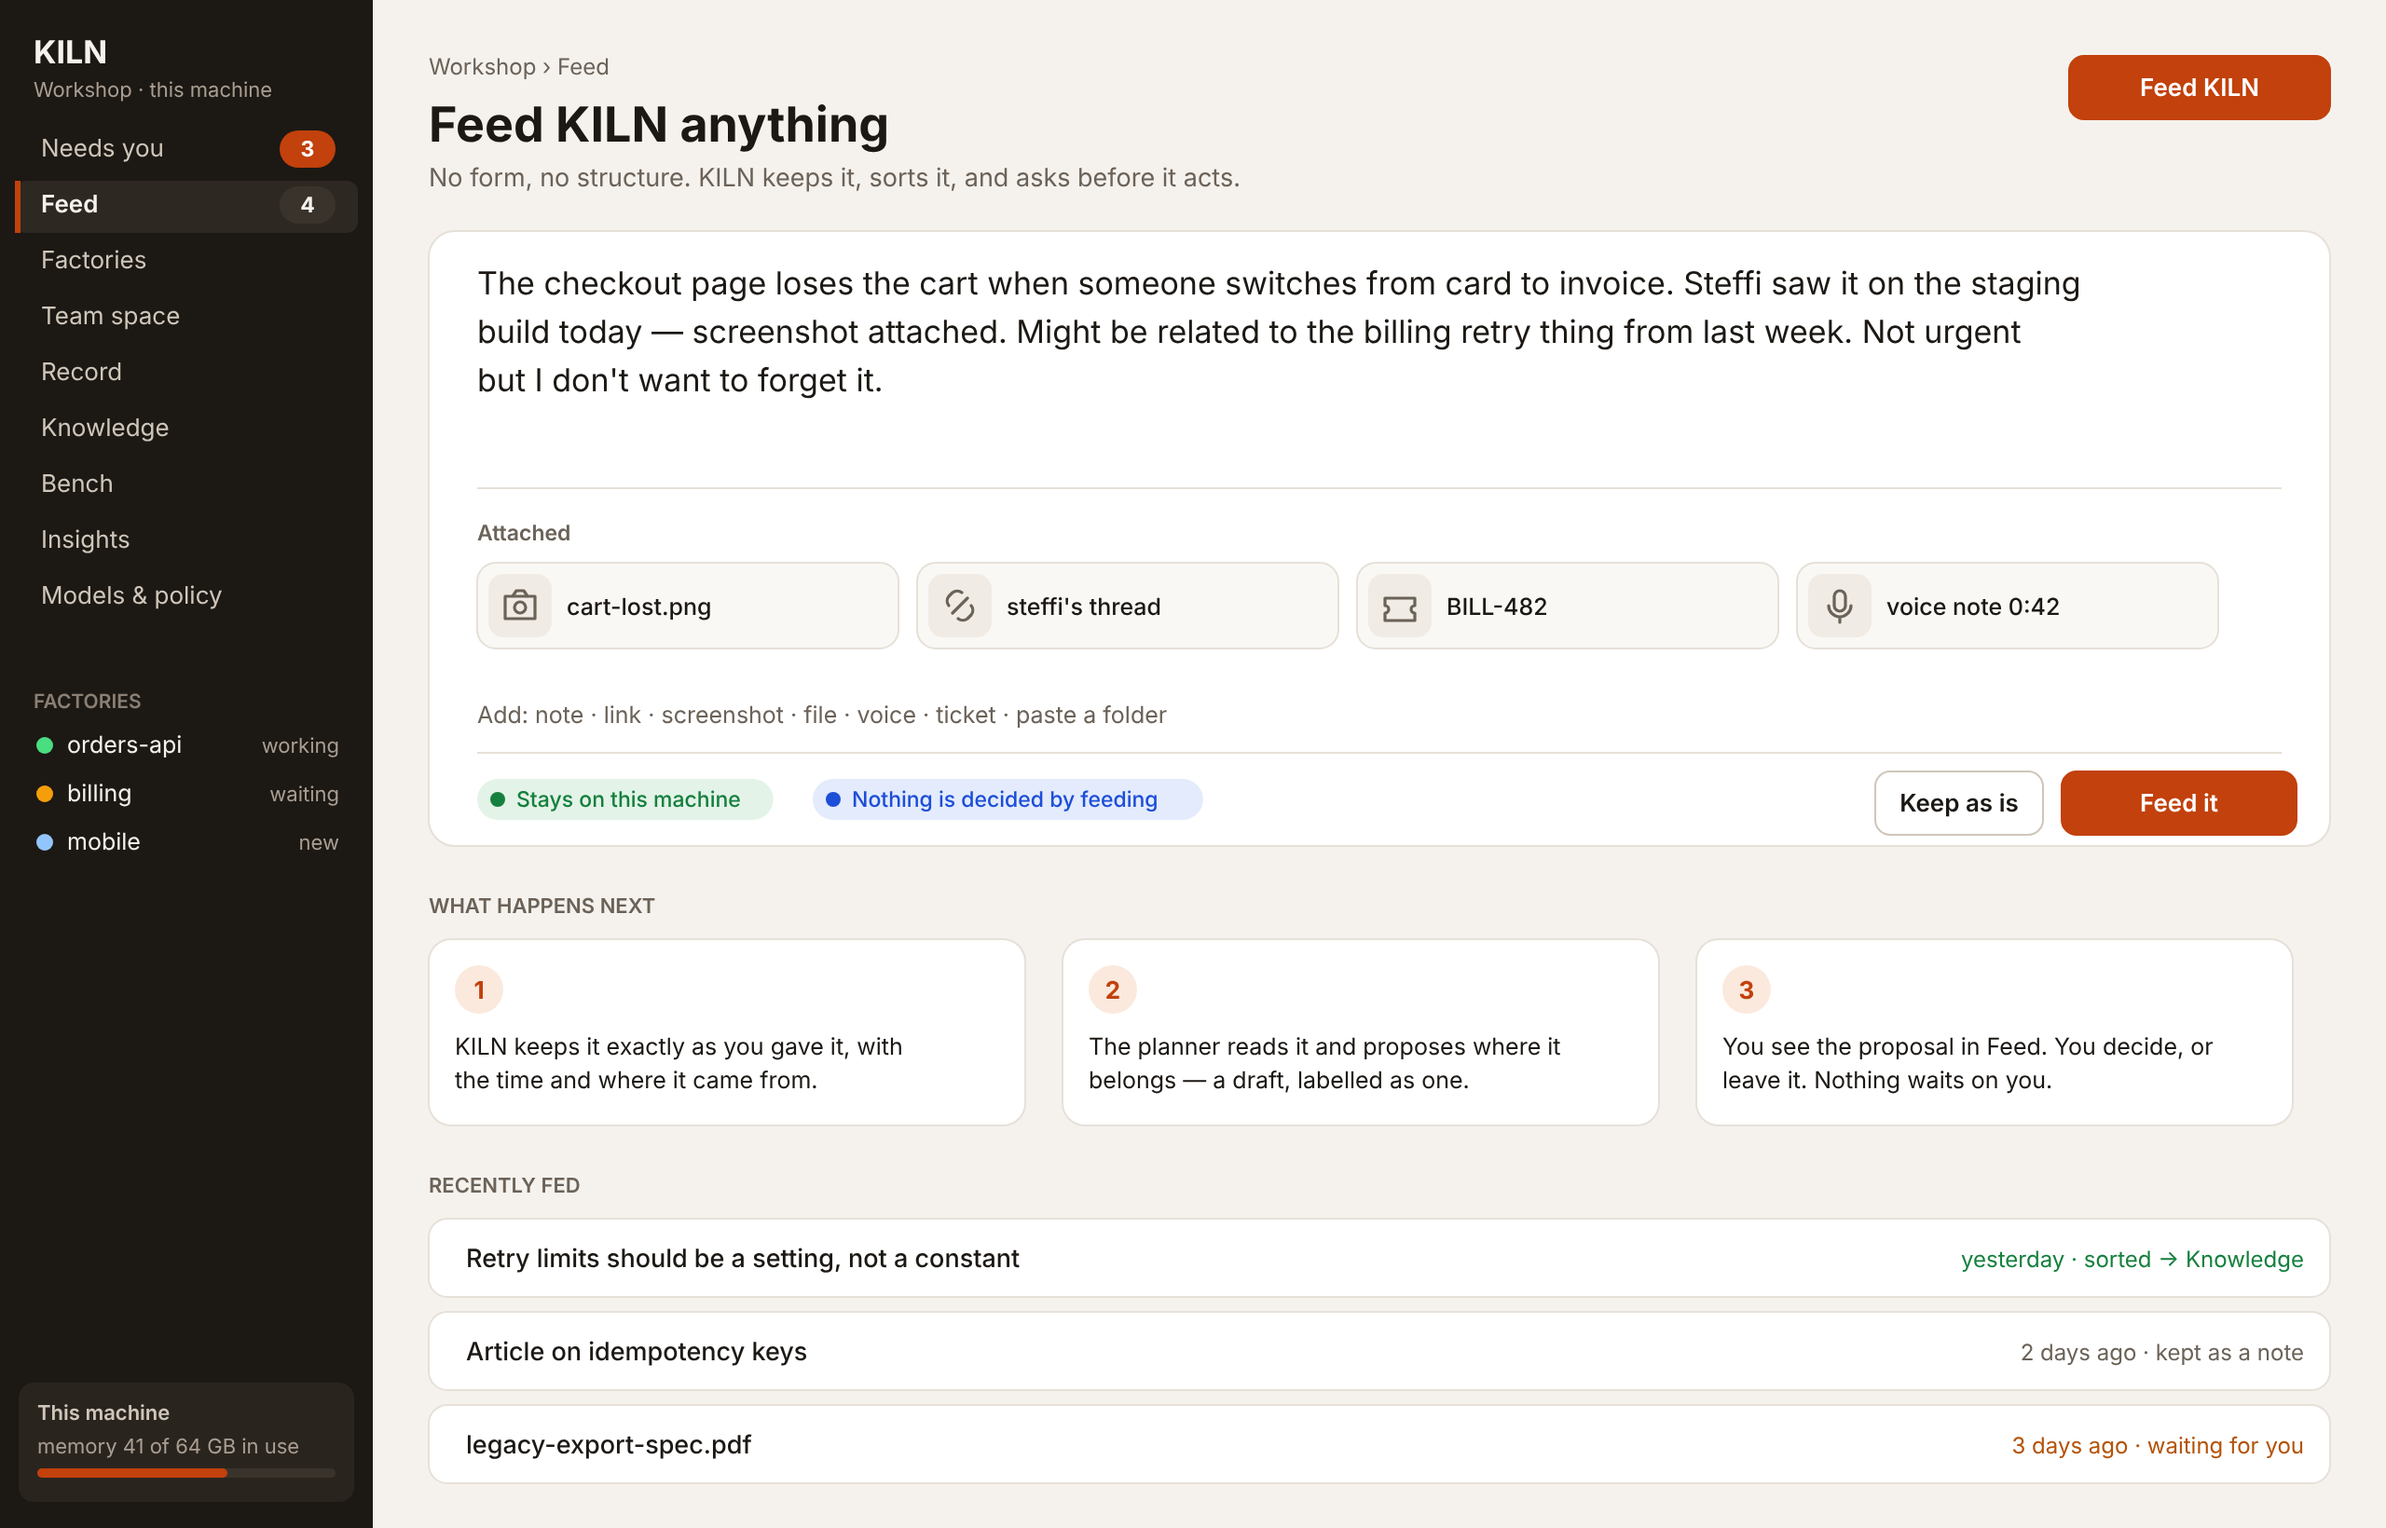
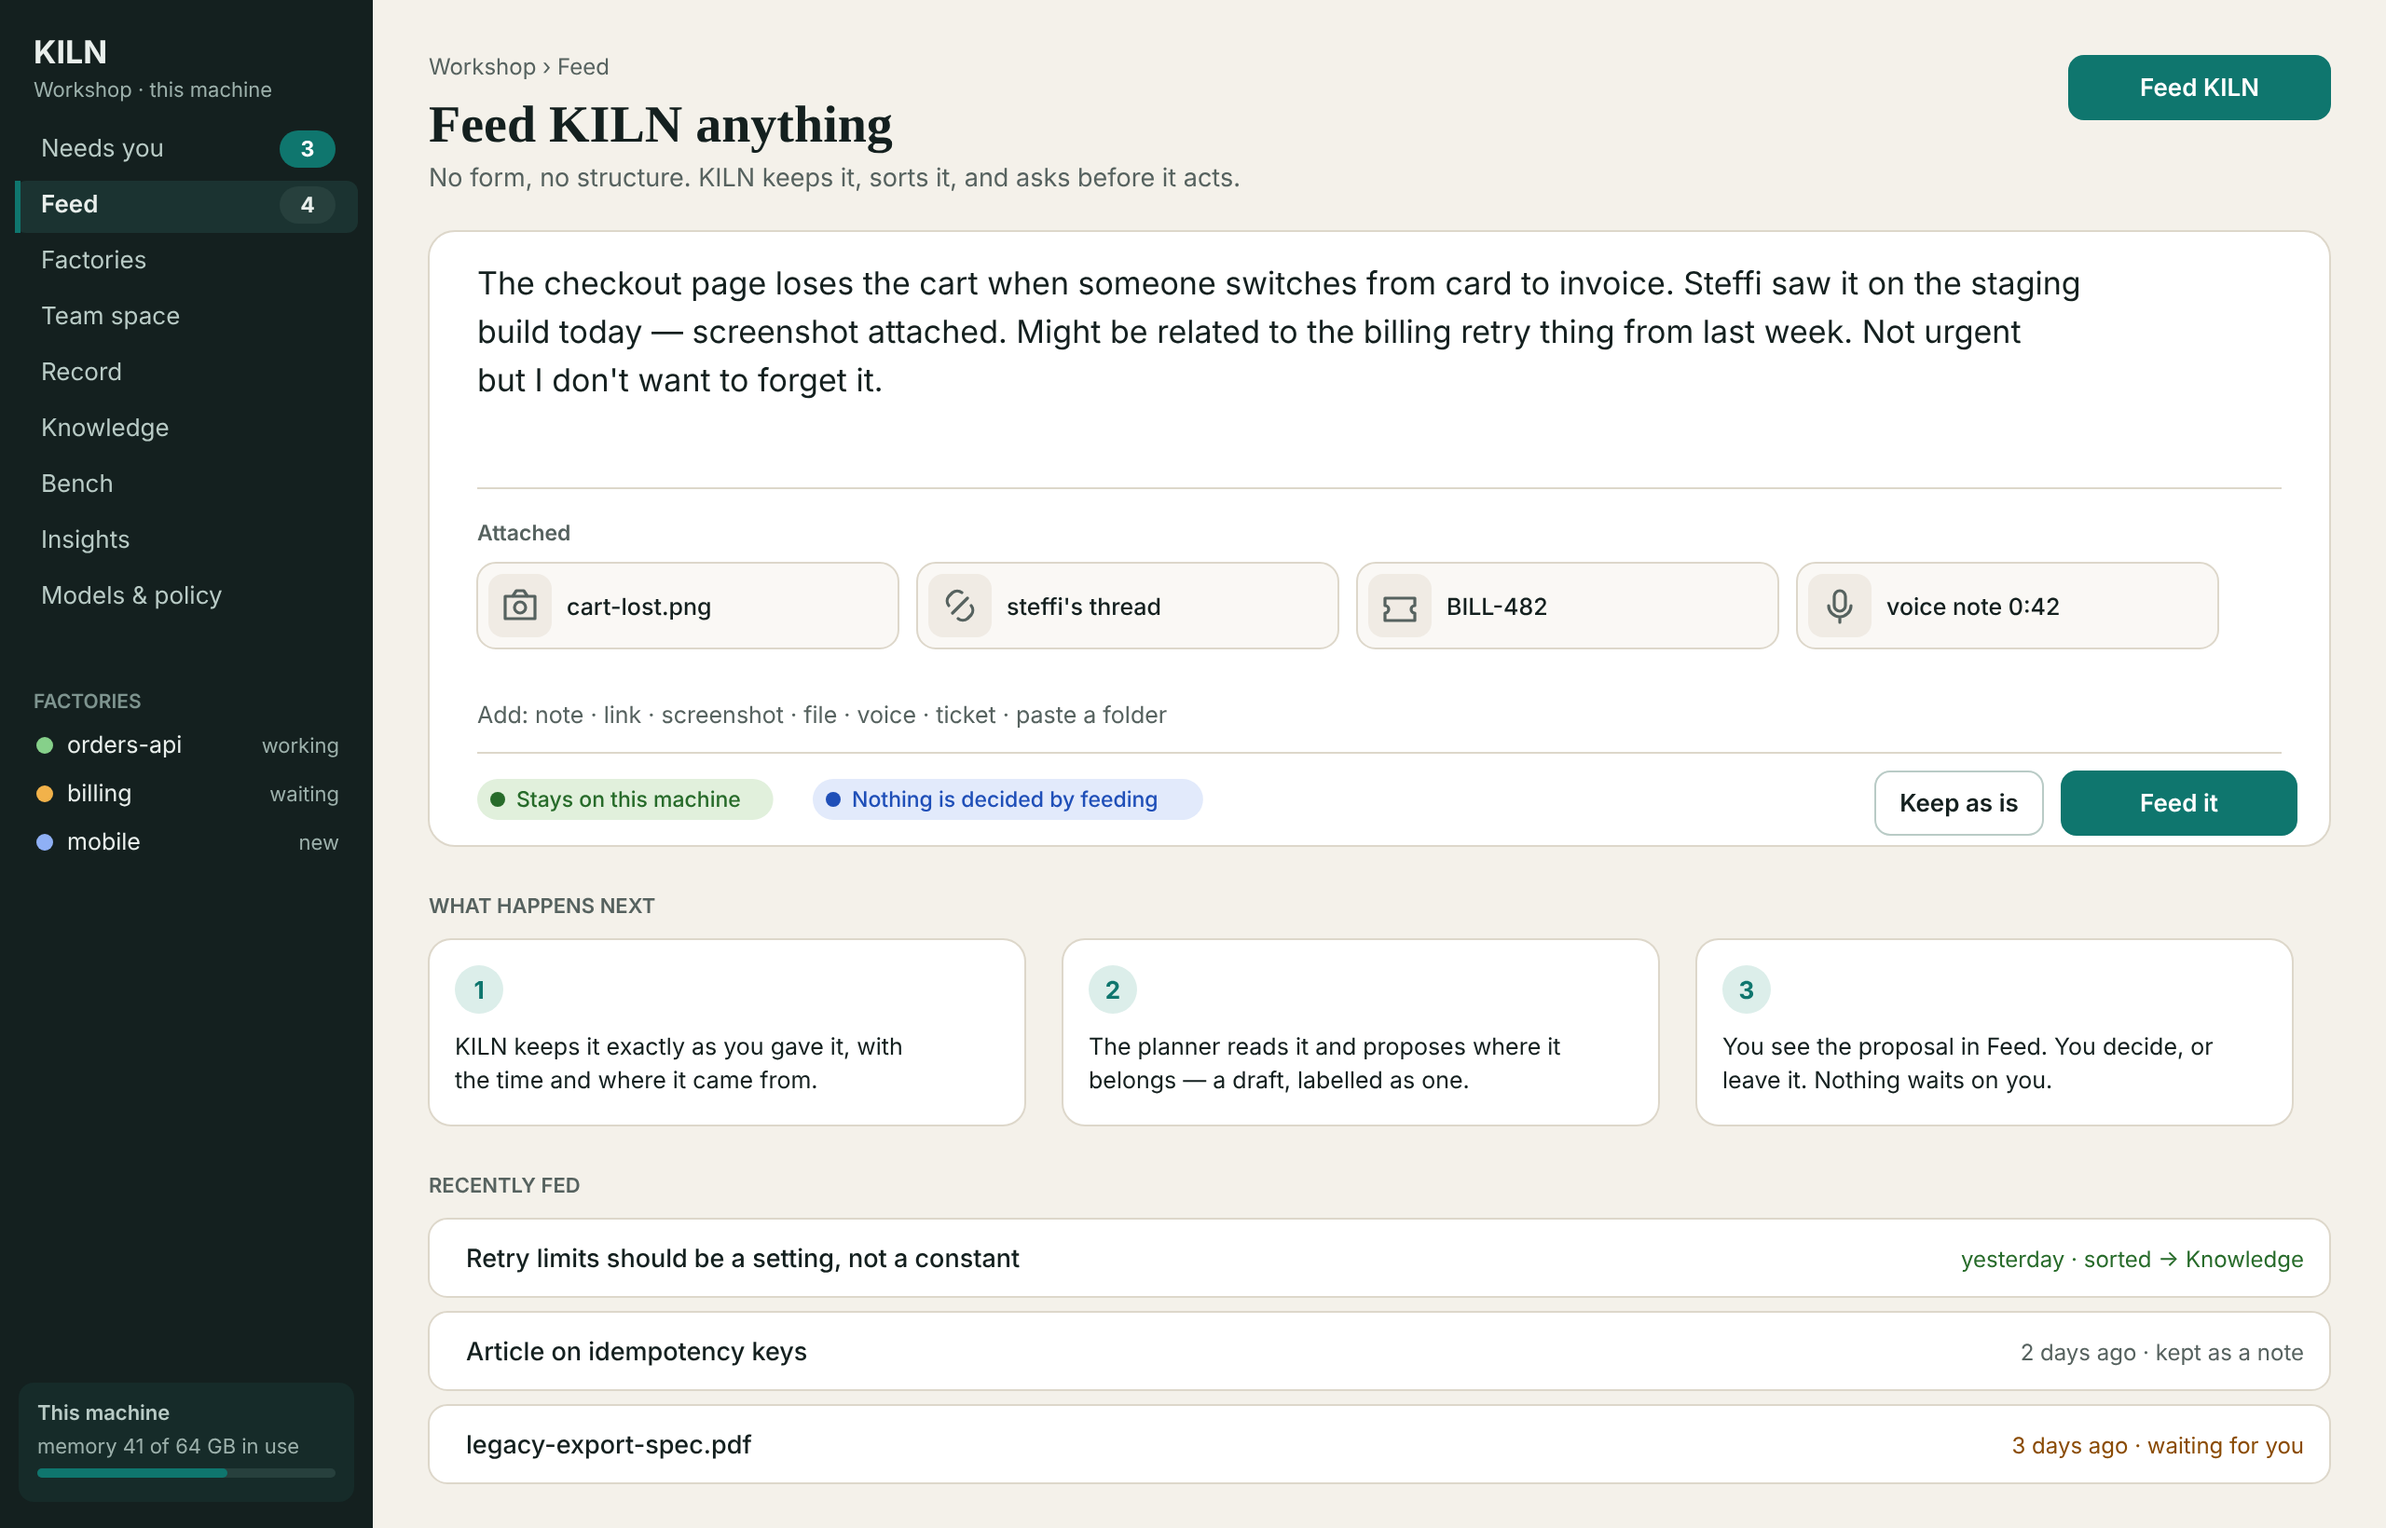
Propose teal-and-sand theme and three-face type; update design system, Feed samples, notes
Claude-Session: https://claude.ai/code/session_01SEMZrA5RguzPuZJa4EMxUB

diff --git a/docs/concepts/design-system.md b/docs/concepts/design-system.md
@@ -409,13 +409,37 @@ palette that this makes explicit.
 
 | Seed | From | Becomes |
 |---|---|---|
-| **Palette** | warm neutrals (`#F5F2EE` background, `#1C1814` ink, `#E6E0D8` line) with an **ember** brand (`#C2410C`, `#EA580C`) | `color.neutral.*` and `color.ember.*` primitives; `color.surface.*`, `color.text.*`, `color.action.primary` semantics |
-| **State colours** | amber *waiting*, green *ok*, blue *info*, violet *delegated* | the product-specific status roles `status.wait`, `status.ok`, `status.info`, `status.delegated` — each tied to its meaning in the gate rail, Needs you and the brief |
-| **Type** | a system sans stack and a monospace for ids, paths and hashes | `font.family.sans`, `font.family.mono`, with a scale |
+| **Palette** | **teal and sand** (changed 2026-10-25; was warm neutrals with an ember accent): sand page `#F4F1EA`, raised `#FFFFFF`, ink `#14201F`, muted text `#56625F`, border `#DDD7CA`, deep-teal rail `#10201F`; **teal** accent `#0F766E` (hover `#0B5F58`, subtle `#DCEEEA`, on dark `#2DD4BF`) | `color.neutral.*` and `color.teal.*` primitives; `color.surface.*`, `color.text.*`, `color.action.primary` semantics |
+| **State colours** | amber *waiting* `#8A4B04` on `#FBEBCB` · green *passed* `#276B2A` on `#E1F0DC` · violet *delegated* `#5B33B0` on `#ECE5F9` · blue *working/info* `#1F4FB8` on `#E2EAFB` · red *rejected/danger* `#A82A1D` on `#FBE3DF` | the product-specific status roles `status.wait`, `status.ok`, `status.delegated`, `status.info`, `status.danger` — each tied to its meaning in the gate rail, Needs you and the brief |
+| **Type** | **three faces** (changed 2026-10-25; was one system sans): *display* Charter (fallbacks Bitstream Charter, Iowan Old Style, Georgia) for page headings only; *interface* Inter (fallback system-ui) for everything people read and click, with tabular figures; *monospace* (DejaVu Sans Mono, ui-monospace) for ids, paths, hashes and commands | `font.family.display`, `font.family.sans`, `font.family.mono`, with a scale |
 | **Components** | the surfaces KILN's concept already describes | *gate rail and gate card · gate brief section · move bar (no pre-selected move) · Needs you item · status pill · event row · record table · diff view · factory card · host card · toast and inline message · empty state* |
 | **Patterns** | `user-experience.md` | *decide-at-a-gate · come-back-after-away · steer-or-approve a held action · compare approved with built · confirm with consequence* |
 
-The seed is a **proposal for the first design system**, drafted and approved before the front door's screens are built
+### 12.1 The teal-and-sand theme
+
+Why teal: the accent is calm and cool, so it never competes with **amber *waiting*** — the one colour a person must notice
+without being alarmed — and it leaves the hot hues to state. The **ember stays in the brand mark and wordmark only**
+(`docs/brand/README.md`: do not recolour the ember); it is not a UI colour. Sand keeps the warmth of the earlier palette.
+
+Measured contrast (WCAG 2.2 relative luminance; text needs 4.5:1, large text and meaningful UI 3:1):
+
+| Pair | Ratio |
+|---|---|
+| ink on page · muted on page · muted on raised | 14.8 · 5.6 · 6.4 |
+| teal on page · teal on raised · white on teal (primary button) | 4.9 · 5.5 · 5.5 |
+| teal-dark `#0B5F58` on subtle `#DCEEEA` · ink on subtle | 6.3 · 13.9 |
+| wait · ok · info · delegated · danger text on their tints | 5.8 · 5.5 · 6.1 · 6.7 · 5.7 |
+| rail text · rail muted · teal-on-dark on rail | 14.4 · 7.5 · 9.0 |
+
+`border.default` (`#DDD7CA`) is decorative only; controls that need a visible boundary use `border.strong` (`#8C9490`,
+3:1 on the page). Each pair is written to the **contrast registry** (§5.5) and checked by `kiln check design-system`. The
+dark mode derives from the rail palette and is drawn at DSN-12.
+
+![KILN theme — teal and sand](./feed/e-theme-sheet.png)
+
+*Sample screens in this theme: `the-feed.md` §5.*
+
+The seed is a **proposal for the first design system** (version 0.2.0 with the teal-and-sand theme), drafted and approved before the front door's screens are built
 (DSN-12); the mockups in `mockups/` stay illustrations. A rule specific to KILN is written into the foundations: **colour
 never carries a gate's state alone** — every state has a word and a shape.
 

diff --git a/.specify/memory/experience-charter.md b/.specify/memory/experience-charter.md
@@ -120,7 +120,7 @@ WCAG 2.2 AA. Every state readable without colour (word and shape). Full keyboard
 
 ## Design system
 
-KILN's own design system (`.specify/memory/design-system/`, seed defined in `docs/concepts/design-system.md` §12: warm neutrals, ember accent, status colours for wait/ok/info/delegated) is pinned by this charter. It is to be authored and approved separately (DSN-12); until then wireframes stay greyscale.
+KILN's own design system (`.specify/memory/design-system/`, seed defined in `docs/concepts/design-system.md` §12: the teal-and-sand theme, Charter display + Inter interface + monospace, status colours for wait/ok/info/delegated/danger) is pinned by this charter. It is to be authored and approved separately (DSN-12); until then wireframes stay greyscale.
 
 ## Quality bars
 

diff --git a/docs/concepts/mockups/README.md b/docs/concepts/mockups/README.md
@@ -236,3 +236,7 @@ The KILN mark in every sidebar comes from [`docs/brand/kiln-mark.svg`](../../bra
 
 Chart colours (mockups 16 and 17) use a two-colour palette checked for colour-blind separation and contrast; every
 chart carries a legend or direct labels, so no meaning depends on colour alone.
+
+> **Note (2026-10-25):** the mockups use the earlier warm palette with an ember accent. KILN's design system now proposes the
+> **teal-and-sand** theme (`../design-system.md` §12.1); newer samples (`../feed/`) are drawn in it. The mockups stay
+> illustrations of layout and flow, not of colour.

diff --git a/docs/concepts/the-feed.md b/docs/concepts/the-feed.md
@@ -56,7 +56,7 @@ edited by its author; edits are new versions, never overwrites.
 
 ## 5. Look and feel
 
-The illustrations use the seed design system (`design-system.md` §12): warm neutrals, the ember accent for the primary action,
+The illustrations use the seed design system (`design-system.md` §12, teal-and-sand theme): sand neutrals, the teal accent for the primary action, Charter for the one-sentence headings, Inter for the interface,
 status shown as a word and a shape, plain second-person sentences, no metaphors from the kiln analogy.
 
 | | |

diff --git a/docs/brand/README.md b/docs/brand/README.md
@@ -30,3 +30,6 @@ around the mark of at least the width of the ember.
 | `kiln-avatar.png` | 512 × 512 | a square **avatar** — the mark on the dark background, for a profile or organisation picture |
 
 GitHub's API cannot set either image; both are uploaded by hand in GitHub's settings.
+
+**In the interface (2026-10-25).** The ember is the brand mark's colour only. The product UI uses the teal-and-sand theme
+(`docs/concepts/design-system.md` §12.1); the mark keeps its colours on both light and dark surfaces.
